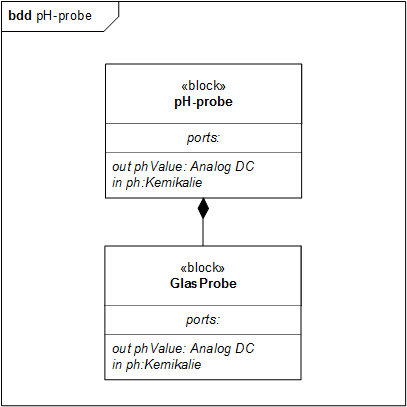
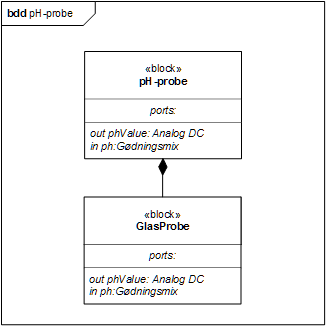
Travis CI

diff --git a/Systemarkitektur/KarControl/KarControl.tex b/Systemarkitektur/KarControl/KarControl.tex
@@ -33,18 +33,24 @@ RSConverter konverterer mellem RS485 og UART 232 når der skal kommunikeres med 
 %\subsection{KarControl Allokeringsdiagram}
 %\systemAllokeringsDiagram{0.82}{KarControl}{KarControl}
 
-\subsection{Signal beskrivelser}
+\subsection{Signalbeskrivelser KarControl}
 \systemSignaler{KarControl} {
-KarBus				& RS485 bus til kommunikation mellem enheder &	 	& Differentielt bussystem  \\
-OeBus				& RS485 bus til kommunikation mellem enheder &	 	& Differentielt bussystem  \\
-Data485				& RS485 bus til kommunikation mellem enheder &	 	& internt signal   \\
-Data232				& RS485 konverteret til logisk niveau		 &	 	& Signal efter konvertering  \\
-EnableIndløb		& Signal til at lukke vand ind i kar		 & 0-5V	& Signal til at styre magnetventil   \\
-EnableAfløb			& Signal til at lukke vand ud af kar		 & 0-5V	& Signal til at styre magnetventil	\\
-EnableVandpumpe		& Styre signal til pumpe			   	     & 0-5V & PWM styret signal	\\
-Puls				& Takt tæller af flow				   	 	 & 0-5V & 	\\
-pH					& Analog signal fra pH måler			 	 & fra -420 til 420 mV  & Analogt signal	\\
-Indløb				& vandstyring i kar							 &    	& Til at lukke vand ind i kar	\\
-Afløb				& vandstyring i kar	 						 &   	& Til at lukke vand ud af kar	\\
-Dossering			& vandstyring til planter					 &      & Til at dosere vand til planterne	\\
+KarBus				& RS485 bus til kommunikation mellem enheder & Binary 1 (OFF)
+																   (Voa-Vob<-200 mV)
+																   Binary 0 (ON)
+																  (Voa-Vob>+200 mV)	 	& Differentielt bussystem \\
+OeBus				& RS485 bus til kommunikation mellem enheder & Binary 1 (OFF)
+																   (Voa-Vob<-200 mV)
+																   Binary 0 (ON)
+																  (Voa-Vob>+200 mV)	 	& Differentielt bussystem \\
+Data485				& RS485 bus til kommunikation mellem enheder & Intern:SW-signal		& Internt signal fra RSconverter til KarGruppe \\
+Data232				& RS485 konverteret til logisk niveau		 & Intern:SW-signal 	& Konverteret signal fra RSconverter til Controller  \\
+EnableIndløb		& Signal til at lukke vand ind i kar		 & Logisk:0-5V			& Signal til styring af Indløbsventil   \\
+EnableAfløb			& Signal til at lukke vand ud af kar		 & Logisk:0-5V			& Signal til styring af Afløbsventil   \\
+EnableVandpumpe		& Signal til styring Vandpumpe		   	     & Logisk:PWM 0-5V 		& Signal til PWM-styring af Vandpumpe	\\
+Puls				& Takttæller af flow				   	 	 & Logisk:0-5V 			& Retursignal fra flowtæller \\
+pH					& Analog signal fra pH måler			 	 & Analog:-420mV-420mV  & Analogt sensorsignal \\
+Indløb				& vandstyring i kar							 & Vandflow   			& Vandtilførsel til karret \\
+Afløb				& vandstyring i kar	 						 & Vandflow  			& Vandtilafledning fra karret \\
+Dossering			& vandstyring til planter					 & Vandflow    			& Vandtilførsel til dosering \\
 }

diff --git a/Systemarkitektur/CentralControl/CentralControl.tex b/Systemarkitektur/CentralControl/CentralControl.tex
@@ -1,13 +1,13 @@
 \subsection{CentralControl IBD}
 \systemIBD{0.82}{CentralControl}{CentralControl}
 
-\subsection{Signal beskrivelser}
+\subsection{Signalbeskrivelser CentralControl}
 \systemSignaler{CentralControl} {
-KarBus				& RS485 bus til kommunikation mellem enheder &	 	& Differentielt bussystem  \\
-Data485				& RS485 bus til kommunikation mellem enheder &	 	& internt signal   \\
-Data232				& RS485 konverteret til UART 232			 &	 	& Signal efter konvertering  \\
-PMSConn				& Database forbindelse						 &		& Til at skrive log \\
-GUIConn				& Database forbindelse						 &		& Til at hente og skrive indstillinger samt log \\
-ControlConn			& Socket forbindelse fra GUI til FlexPMS	 &		& Til at sende kommandoer fra GUI til FlexPMS \\
-html				& Http protokol								 &		& Fobindelse til brugerens browser \\
-}
+KarBus				& RS485 bus til kommunikation mellem enheder & logisk 0-5V				& Differentielt bussystem, følger CMOS-standard  \\
+Data485				& RS485 bus til kommunikation mellem enheder & logisk 0-5V				& Internt signal, følger CMOS-standard   \\
+Data232				& RS485 konverteret til UART 232			 & logisk 0-5V				& Signal efter konvertering, følger CMOS-standard  \\
+PMSConn				& Database forbindelse						 & intern SW forbindelse	& Til at skrive log \\
+GUIConn				& Database forbindelse						 & intern SW forbindelse	& Til at hente og skrive indstillinger samt log \\
+ControlConn			& Socket forbindelse fra GUI til FlexPMS	 & intern SW forbindelse	& Til at sende kommandoer fra GUI til FlexPMS \\
+html				& Http protokol								 & intern SW forbindelse	& Forbindelse til brugerens browser \\
+}	

diff --git a/Systemarkitektur/Sensor_oe/Sensor_oe.tex b/Systemarkitektur/Sensor_oe/Sensor_oe.tex
@@ -18,11 +18,14 @@ Fieldsensor er en generalisering af alle slags sensorer, som kan tilsluttes Sens
 %\subsection{Sensor Ø Allokeringsdiagram}
 %\systemAllokeringsDiagram{0.82}{Sensor_oe}{Sensor Ø}
 
-\subsection{Signal beskrivelser}
+\subsection{Signalbeskrivelser Sensor Ø}
 \systemSignaler[SensorOe]{Sensor Ø}{
-oeData				& Buskommunikation efter konvertering fra 485 &	 	& UART kommunikation fra 485 bussen  \\
-oeBus				& RS485 bus til kommunikation mellem enheder  &	 	& Differentielt bussystem  \\
-sensorData			& Signal på I2C bus							  &	 	& Kan være flere forskellige signaler alt efter sensor type   \\
-ventilCtrl			& Signal til styring af doserings ventil	  &	0-5V& Bruges til at styre mængden af vand til planterne \\
-vand				& Dette er flow'et af vand 					  &		& \\
+oeData				& Buskommunikation efter konvertering fra 485 & Intern:SW-signal 		 	& Konverteret signal fra RSconverter til Sensor Ø 																									Controller  \\
+oeBus				& RS485 bus til kommunikation mellem enheder  &	Binary 1 (OFF)
+																   (Voa-Vob<-200 mV)
+																   Binary 0 (ON)
+																  (Voa-Vob>+200 mV) 			& Differentielt bussystem  \\
+sensorData			& I2C bussignal 							  &	Logisk: 0-5V				& Kommunikation fra sensorer til Sensor Ø \\
+ventilCtrl			& Signal til styring af doserings ventil	  &	Logisk: 0-5V				& Signal til styring af Doseringsventil \\
+vand				& Vandflow fra Karret 					 	  &	Vandflow					& Vandtilførsel til doseringsventil \\
 }

diff --git a/Systemarkitektur/Sensor_Jordfugt/Sensor_Jordfugt.tex b/Systemarkitektur/Sensor_Jordfugt/Sensor_Jordfugt.tex
@@ -1,6 +1,6 @@
 %!TEX root = ../../main.tex
 
-Jordfugt sensoren måler en strøm igennem jorden. Denne strøm vil variere med hensyn til fugtigheden som derfor vil resultere i en spændingsændring på indgangen af analog til digital converteren. Denne spænding bruges til at udregne fugtigheden i procent
+Jordfugt sensoren måler en strøm igennem jorden. Denne strøm vil variere med hensyn til fugtigheden som derfor vil resultere i en spændingsændring på indgangen af analog til digital konverteren. Denne spænding bruges til at udregne fugtigheden i procent
 
 \subsection{Jordfugt sensor BDD}
 \systemBDD[Sensor_Jordfugt]{0.83}{Jordfugt sensor}
@@ -8,8 +8,9 @@ Jordfugt sensoren måler en strøm igennem jorden. Denne strøm vil variere med 
 \subsection{Jordfugt sensor IBD}
 \systemIBD{0.83}{Sensor_Jordfugt}{Jordfugt sensor}
 
-\subsection{Signal beskrivelser}
+\subsection{Signalbeskrivelser Jordfugtighedssensor}
 \systemSignaler{Jordfugt sensor}{
-				&  			&	 	&   \\
-				&  			&	 	&   \\
+Målespænding		& Spændingsforskel 				& 	 				& Differential spænding skab af fugtighed i jorden  	 \\
+DataADC				& ADC-konverteret målespænding 	& Logisk: 0-5V	 	& Digitalt konverteret målesignal   					 \\
+DataI2C				& I2C kommunikation 			& Logisk: 0-5V	 	& Kommunikation fra Jordfugtighedsmåler til Fieldsensor  \\
 }

diff --git a/Systemarkitektur/Ventilstyring/Ventilstyring.tex b/Systemarkitektur/Ventilstyring/Ventilstyring.tex
@@ -14,8 +14,8 @@ Her ses så de interne forbindelser i Ventilstyringen
 
 \subsection{Signal beskrivelser}
 \systemSignaler{Ventilstyring}{
-cV				& On/Off signal til Mosfet kredsløbet 			&	0-5V 	&  Bestemmer om Ventilen skal være åben \\
-Ventil\_cV		& On Off signal til Ventilen		  			&	0-12V 	&  Åbner Lukker Ventilen \\
-vand			& Vand der flyder gennem ventilen				&			&	\\
+cV				& On/Off signal til Mosfet kredsløbet 			& Analog: 0-5V 	& Styringssignal til Ventilstyring \\
+Ventil\_cV		& On Off signal til Ventilen		  			& Analog: 0-12V & Forsyning til ventilen \\
+Vand			& Vand der flyder gennem ventilen				&				& Vand der flyder til/fra karret \\
 }
 

diff --git a/Systemarkitektur/Sensor_pH/Sensor_pH.tex b/Systemarkitektur/Sensor_pH/Sensor_pH.tex
@@ -14,6 +14,6 @@ Igen ses simpliciteten da pH proben bare interagere med kemikalium og herefter p
 
 \subsection{Signal beskrivelser}
 \systemSignaler{pH-sensor}{
-pHvalue				&  			&	 	&   \\
-pH					&  			&	 	&   \\
+pHvalue								& Analogt signal fra pH-måler				& Analog:-420mV-420mV	& Den målte Spændingsforskel i proben  \\
+\glslink{goedningsmix}{Gødningsmix}	& \glslink{goedningsmix}{Gødningsmix} i kar & pH-værdi: 6-8	 		& pH-værdi af \gls{goedningsmix} i karret  \\
 }

diff --git a/Systemarkitektur/Fieldsensor/Fieldsensor.tex b/Systemarkitektur/Fieldsensor/Fieldsensor.tex
@@ -5,7 +5,7 @@ Dette er vores modelLibrary af de sensorer der matcher Fieldsensor specifikation
 
 \systemBDD{0.7}{Fieldsensor}
 
-\subsection{Signal beskrivelser}
+\subsection{Signalbeskrivelser Fieldsenser}
 \systemSignaler{Fieldsensor}{
-sensorData				&  I2C kommunikation			&	0-5V 	&  Bruges til at modtage sensortype og sensor målinger fra sensoren\\
+sensorData				&  I2C kommunikation			& Logisk: 0-5V 	&  Kommunikation fra sensorer til Fieldsensor\\
 }

diff --git a/Kravspecifikation/UseCases/UseCase1.tex b/Kravspecifikation/UseCases/UseCase1.tex
@@ -1,5 +1,5 @@
 \subsection{Use case 1}
-Når bruger ønsker at aflæse målingerne, skal data aflæses via \glslink{gui}{gui'en}. Denne use case kan kun gennemføres af en person da der kun er en \gls{gui}. 
+Når bruger ønsker at aflæse målingerne, skal data aflæses via \glslink{gui}{gui'en}. Denne use case kan kun gennemføres af en person. 
 
 
 

diff --git a/Systemarkitektur/Systemarkitektur.tex b/Systemarkitektur/Systemarkitektur.tex
@@ -20,7 +20,6 @@ Alle	& 0.1	 	& 17-03-2015  \\
 
 \newpage
 \section{KarControl diagrammer}
-\fixme{Signal beskrivelser skal opdateres}
 \input{Systemarkitektur/KarControl/KarControl}
 
 \newpage
